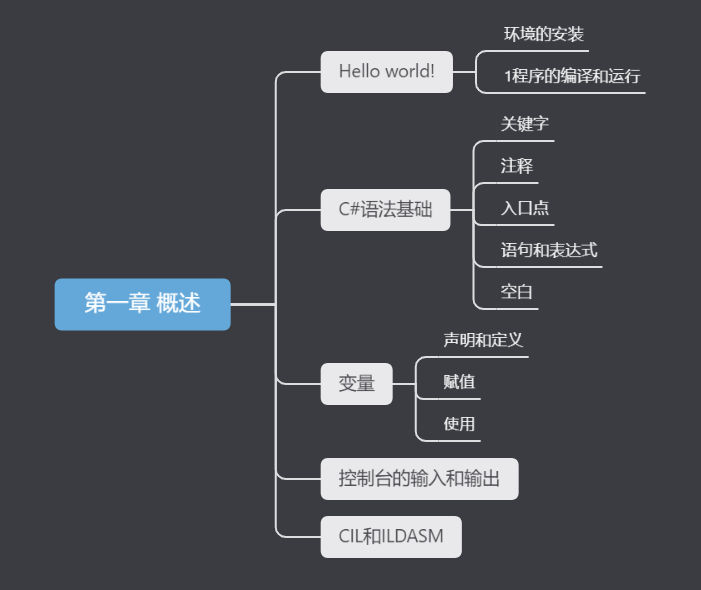
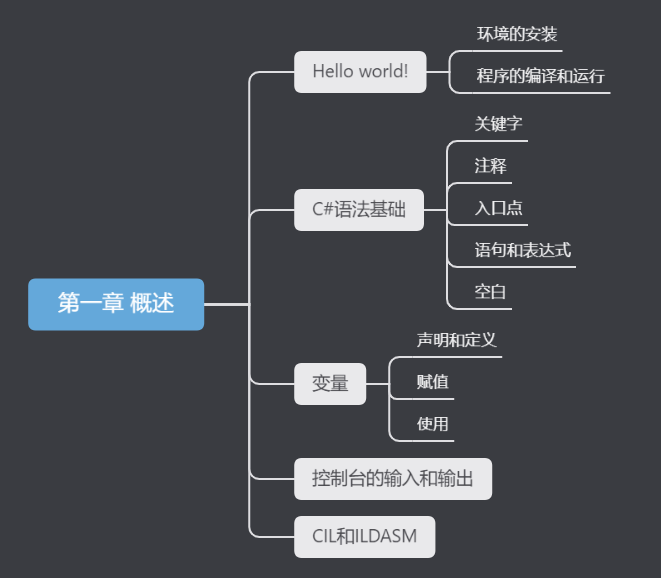
:sparkles: Fix a little bug.

Changed region(s): [[0.0303, 0.0311, 0.938, 0.9654]]

diff --git a/book/第一章-概述.md b/book/第一章-概述.md
@@ -1,6 +1,6 @@
 # 第一章 概述
 
-![本章导读](https://github.com/XynLifeAcademy/CSharp-Starter-Course/blob/main/img/1.png)
+![本章导读](https://github.com/XynLifeAcademy/CSharp-Starter-Course/raw/main/img/1.png)
 
 
 
